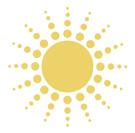
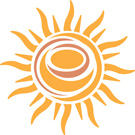
new graphics

diff --git a/themes/earthbox/layout.css b/themes/earthbox/layout.css
@@ -892,7 +892,7 @@ border-top: 0px none;
 }
   
 .grass_logo {
-	 padding-left:75px; 
+	 padding-left:112px; 
 	 padding-top:30px;
 }
 
